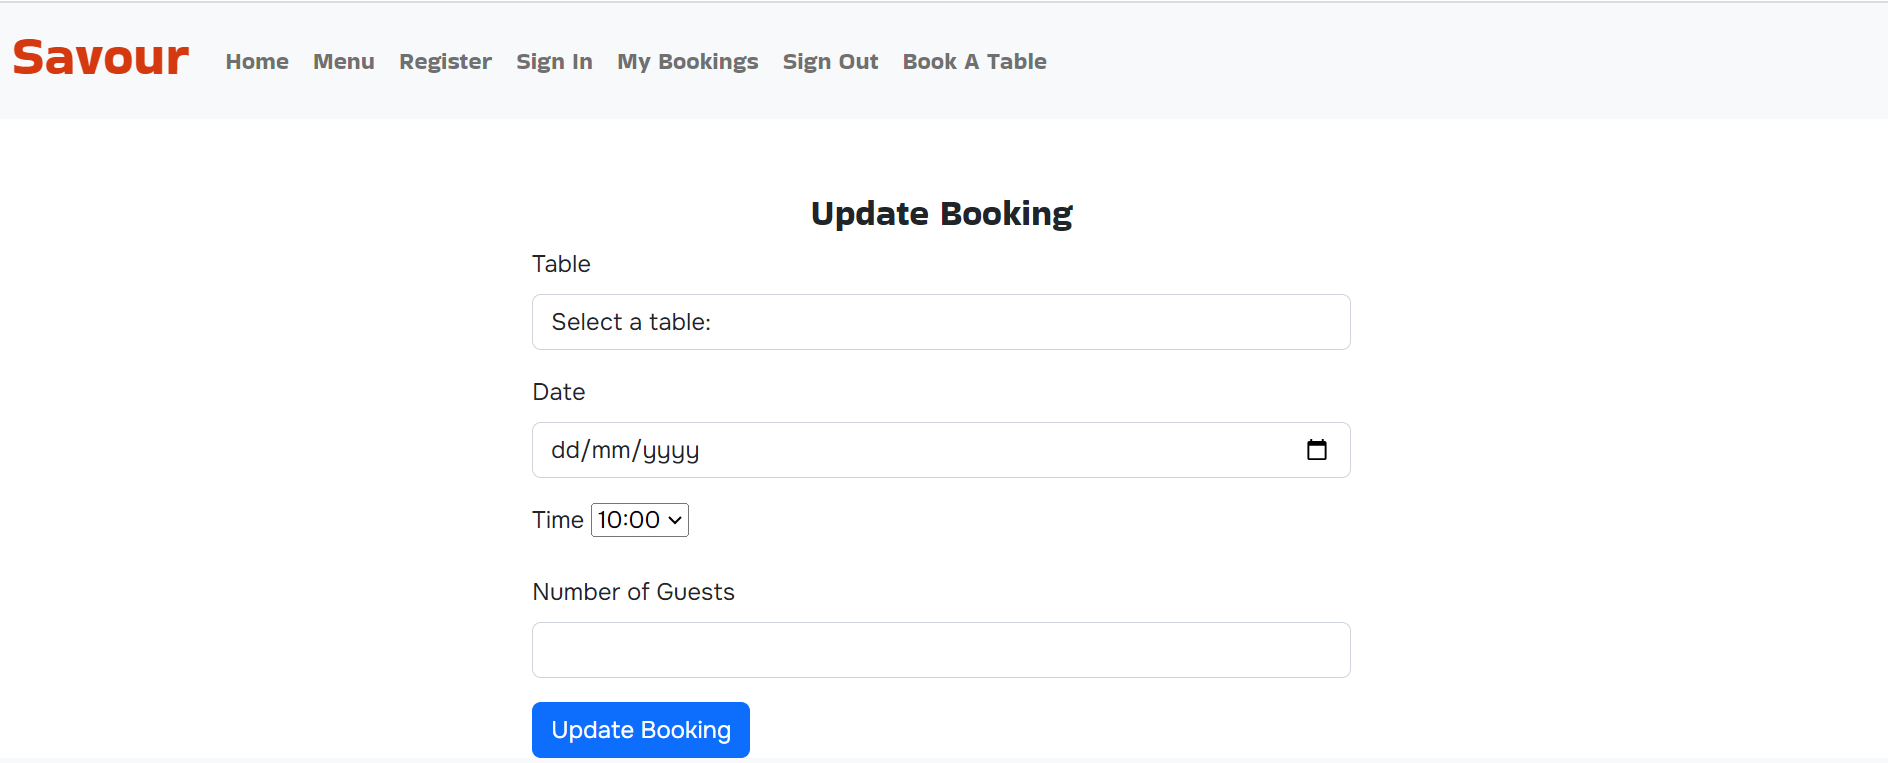
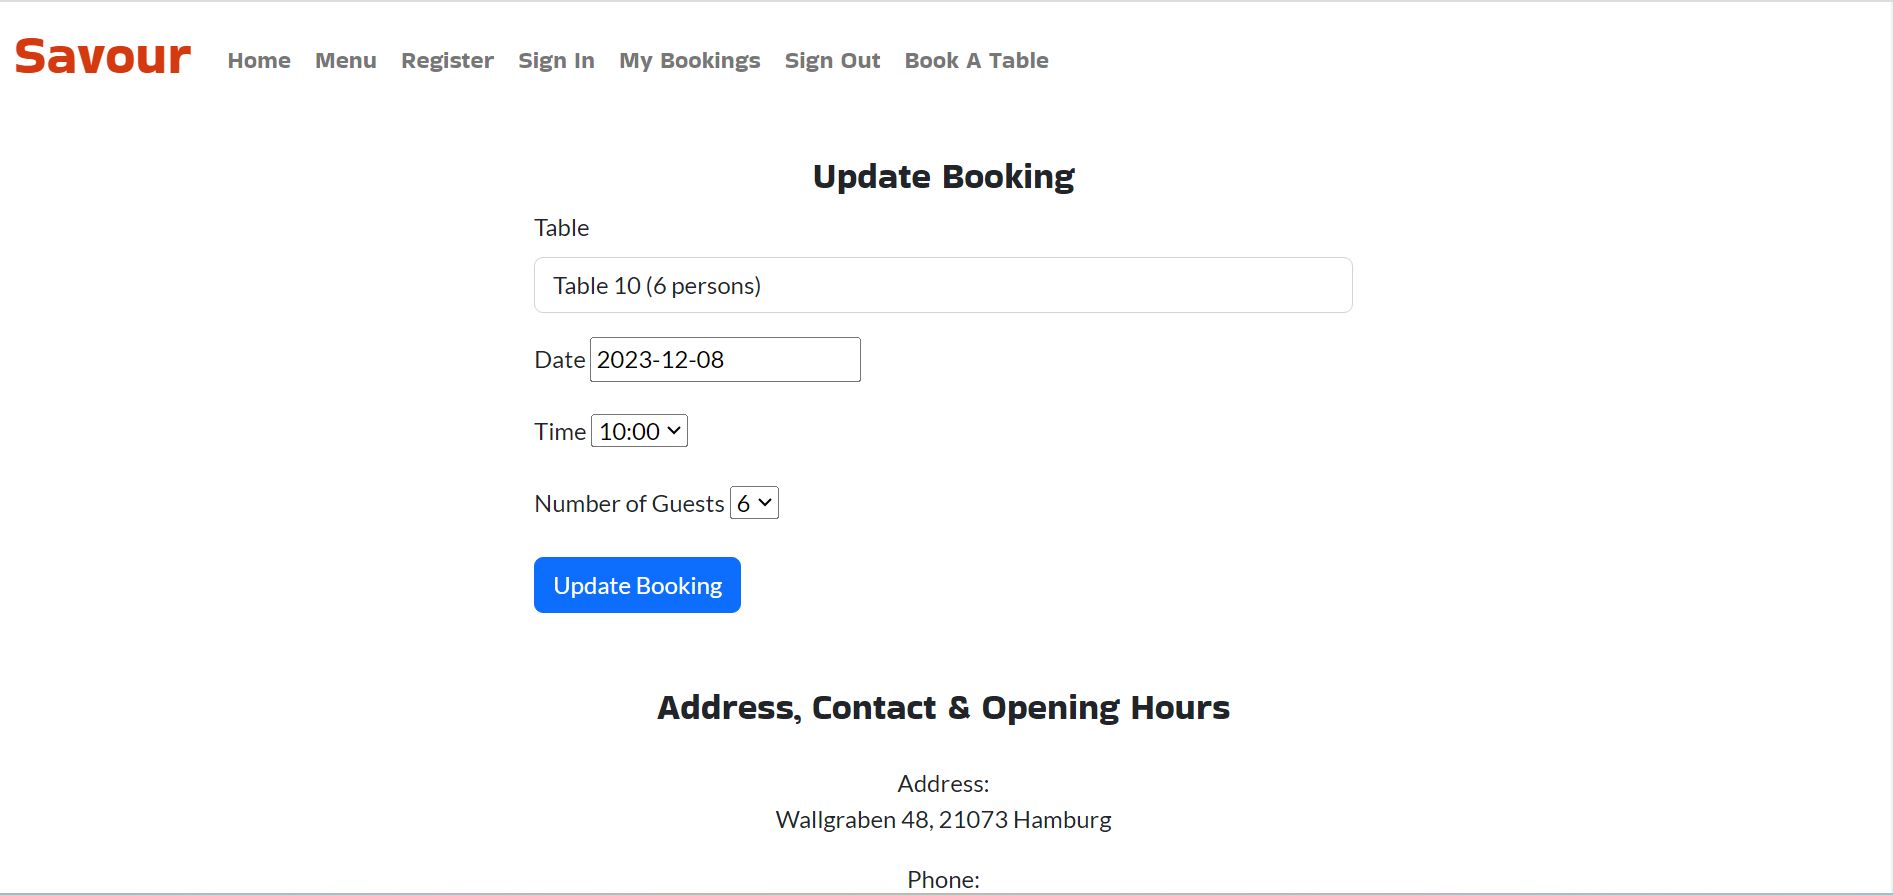
docs: add the rest of the credits section to readme.md

diff --git a/booking/templates/update_booking.html b/booking/templates/update_booking.html
@@ -12,7 +12,7 @@
             <select class="form-control" id="table" name="table" required>
                 <option value="">Select a table:</option>
                 {% for table in tables %}
-                <option value="{{ table.id }}" {% if table.id == form.instance.table.id %}selected{% endif %}>
+                <option value="{{ table.number }}" {% if table.number == form.instance.table.number %}selected{% endif %}>
                     Table {{ table.number }} ({{ table.capacity }} persons)
                 </option>
                 {% endfor %}

diff --git a/booking/templates/book.html b/booking/templates/book.html
@@ -13,7 +13,7 @@
           <select class="form-control" id="table" name="table" required>
             <option value="">Select a table:</option>
             {% for table in tables %}
-            <option value="{{ table.id }}">
+            <option value="{{ table.number }}">
               Table {{ table.number }} ({{ table.capacity }} persons)
             </option>
             {% endfor %}

diff --git a/savour/settings.py b/savour/settings.py
@@ -29,7 +29,7 @@ TEMPLATES_DIR = os.path.join(BASE_DIR, 'booking/templates')
 SECRET_KEY = os.environ.get('SECRET_KEY')
 
 # SECURITY WARNING: don't run with debug turned on in production!
-DEBUG = False
+DEBUG = True
 X_FRAME_OPTIONS = 'SAMEORIGIN'
 
 ALLOWED_HOSTS = ['savour-8ce84994befd.herokuapp.com',

diff --git a/README.md b/README.md
@@ -214,7 +214,7 @@
 - Clicking on "My Bookings" will open the "My Bookings" page on the website.
 - On "My Bookings" page, a signed-in user can see their bookings, update them, or cancel them.
 - On each booking, there are all the details of that booking; underneath, there are two buttons: "Update Booking" and "Cancel Booking".
-- If a user clicks inside a certain booking on the "Update Booking" button, a form for updating a booking opens up, on which a user can choose new settings to be applied for that booking; if these are available, that booking will be updated and the user will be redirected back into their "My Bookings" page, where they can find their updated booking. If these are not available, however, an error message arises, tells the user that those settings are already booked, and urges the user to choose other settings to be able to update their booking.
+- If a user clicks inside a certain booking on the "Update Booking" button, a form for updating a booking opens up prepopulated with the settings of the booking that the customer wants to update. The user can choose new settings to be applied for that booking; if these are available, that booking will be updated and the user will be redirected back into their "My Bookings" page, where they can find their updated booking. If these are not available, however, an error message arises, tells the user that those settings are already booked, and urges the user to choose other settings to be able to update their booking.
 - If a user clicks inside a certain booking on the "Cancel Booking" button, a message pops up and asks the user if they are sure that they want to cancel that booking. If the user confirms their wish to cancel that booking by clicking on "OK", that booking will be cancelled and a message comes into sight confirming that that booking has successfully been cancelled.
 - Below are eight screenshots that depict the "My Bookings" form; the first six are on a laptop, the seventh on an iPad, and the eighth on an iPhone.
 
@@ -1072,14 +1072,21 @@
 - [Stackoverflow/ form.non_field_errors](https://stackoverflow.com/questions/26905679/how-to-handle-form-non-field-errors-and-form-errors)
 - [Stackoverflow/ Django form registration/ form username, email, and password errors](https://stackoverflow.com/questions/6364623/django-registration-email-as-username/26560158#26560158)
 - [MDN/ HTMLObjectElement/ .setCustomValidity() method](https://developer.mozilla.org/en-US/docs/Web/API/HTMLObjectElement/setCustomValidity)
-- []()
-- []()
-- []()
-- []()
-- []()
-- []()
-- []()
-- []()
-- []()
-- []()
-- []()
+
+## 12. 10. book.html
+
+- [SkillSugar/ How to get Form Input ID, Label & Name in Django Template/ form.time.id_for_label](https://www.skillsugar.com/how-to-get-form-input-id-label-name-in-django-template)
+
+## 12. 11. update_booking.html
+
+- [Stackoverflow/ Iterating over the options of a SelectField in a template](https://stackoverflow.com/questions/9221010/how-do-i-iterate-over-the-options-of-a-selectfield-in-a-template)
+
+## 12. 12. my_bookings.html
+
+- [Geeks For Geeks/ Django Template Tag for a url/ update or cancel butto href url](https://www.geeksforgeeks.org/url-django-template-tag/)
+- [Stackoverflow/ Confirm before cancelling a booking/ JS confirm() & .preventDefault()](https://stackoverflow.com/questions/20475348/how-to-ask-for-confirmation-and-use-e-preventdefault-on-click-event)
+
+## 12. 13. "Savour" images
+
+- I created all images of my "Savour" project by means of [Freepik/ free AI image generator](https://www.freepik.com/ai/image-generator).
+- For more info about Freepik, please visit: [Freepik/ free AI image generator](https://www.freepik.com/ai/image-generator).
